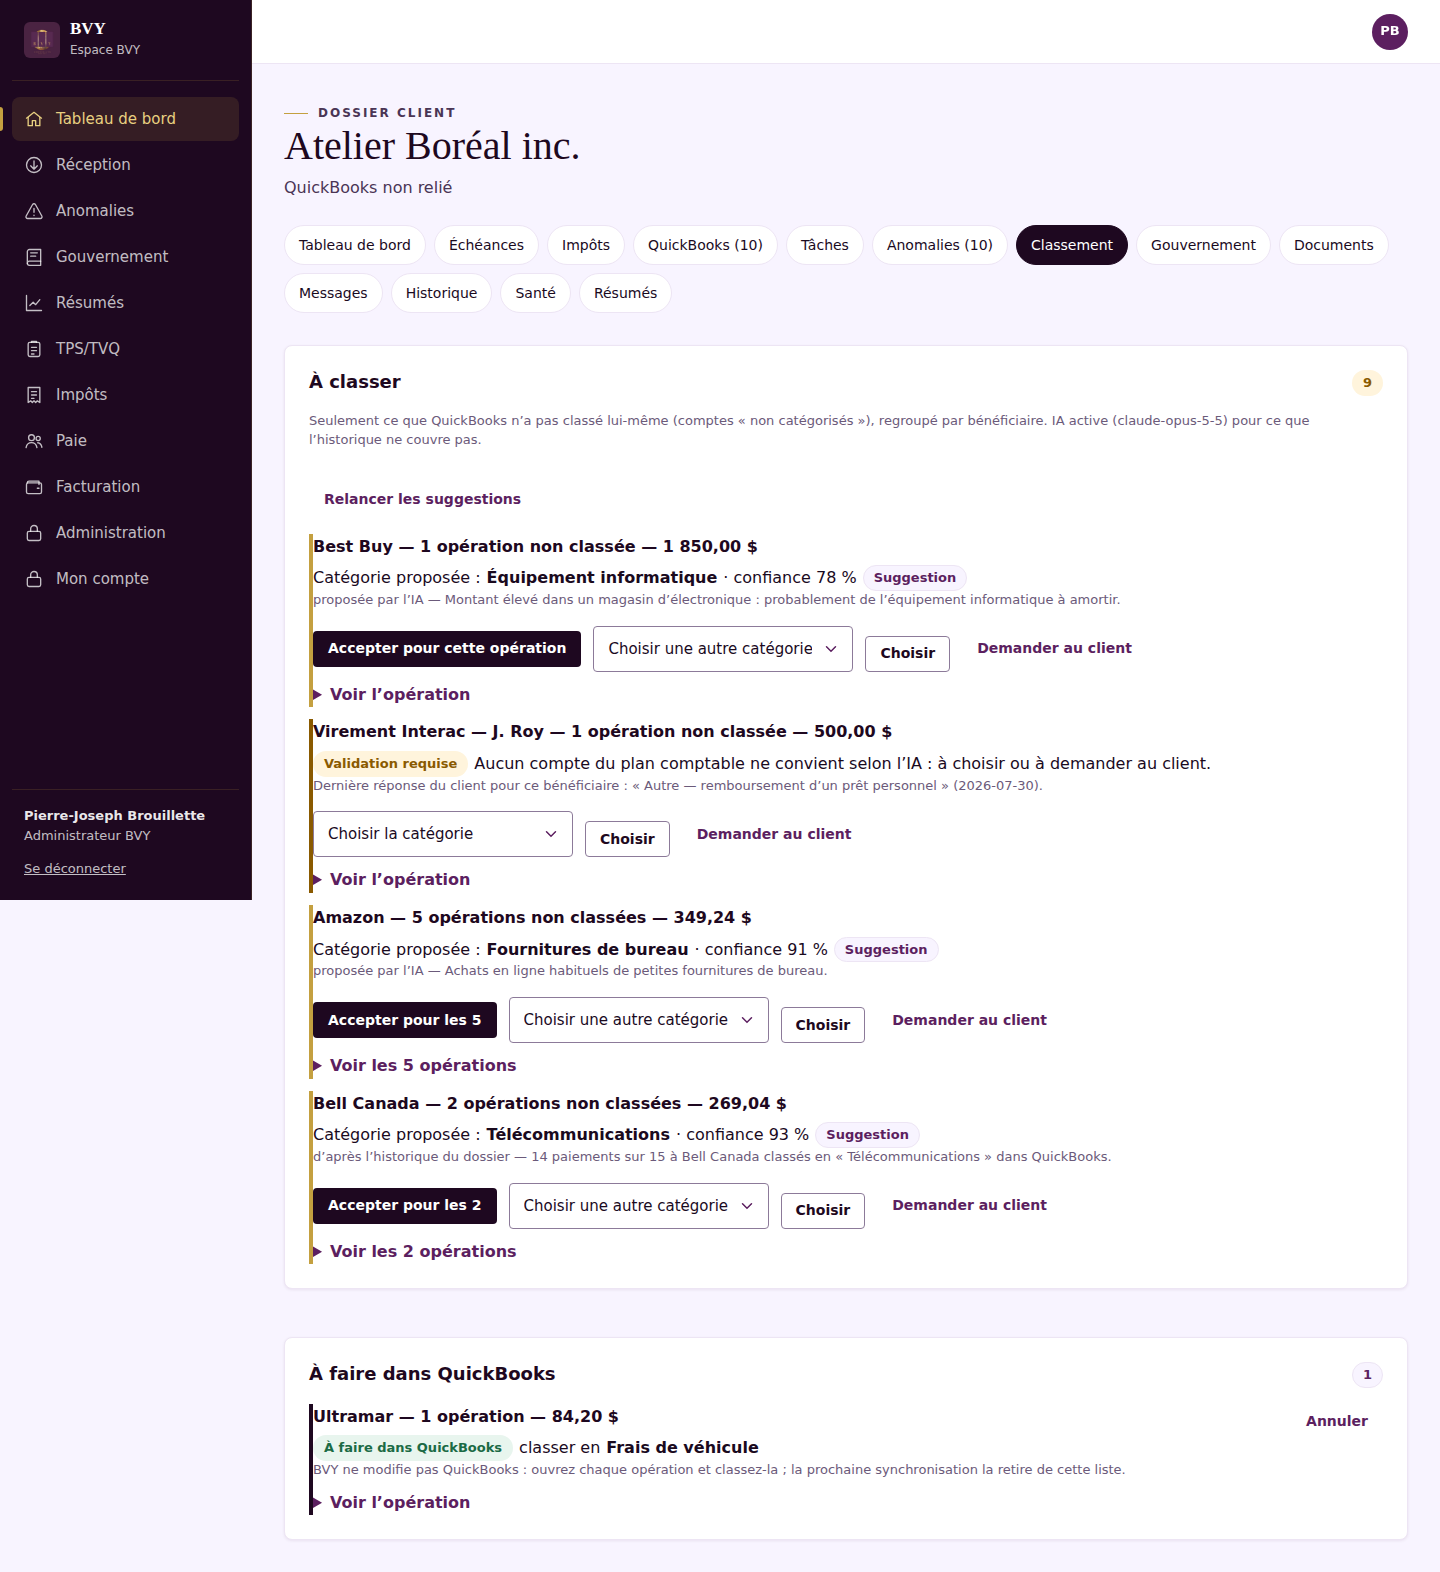
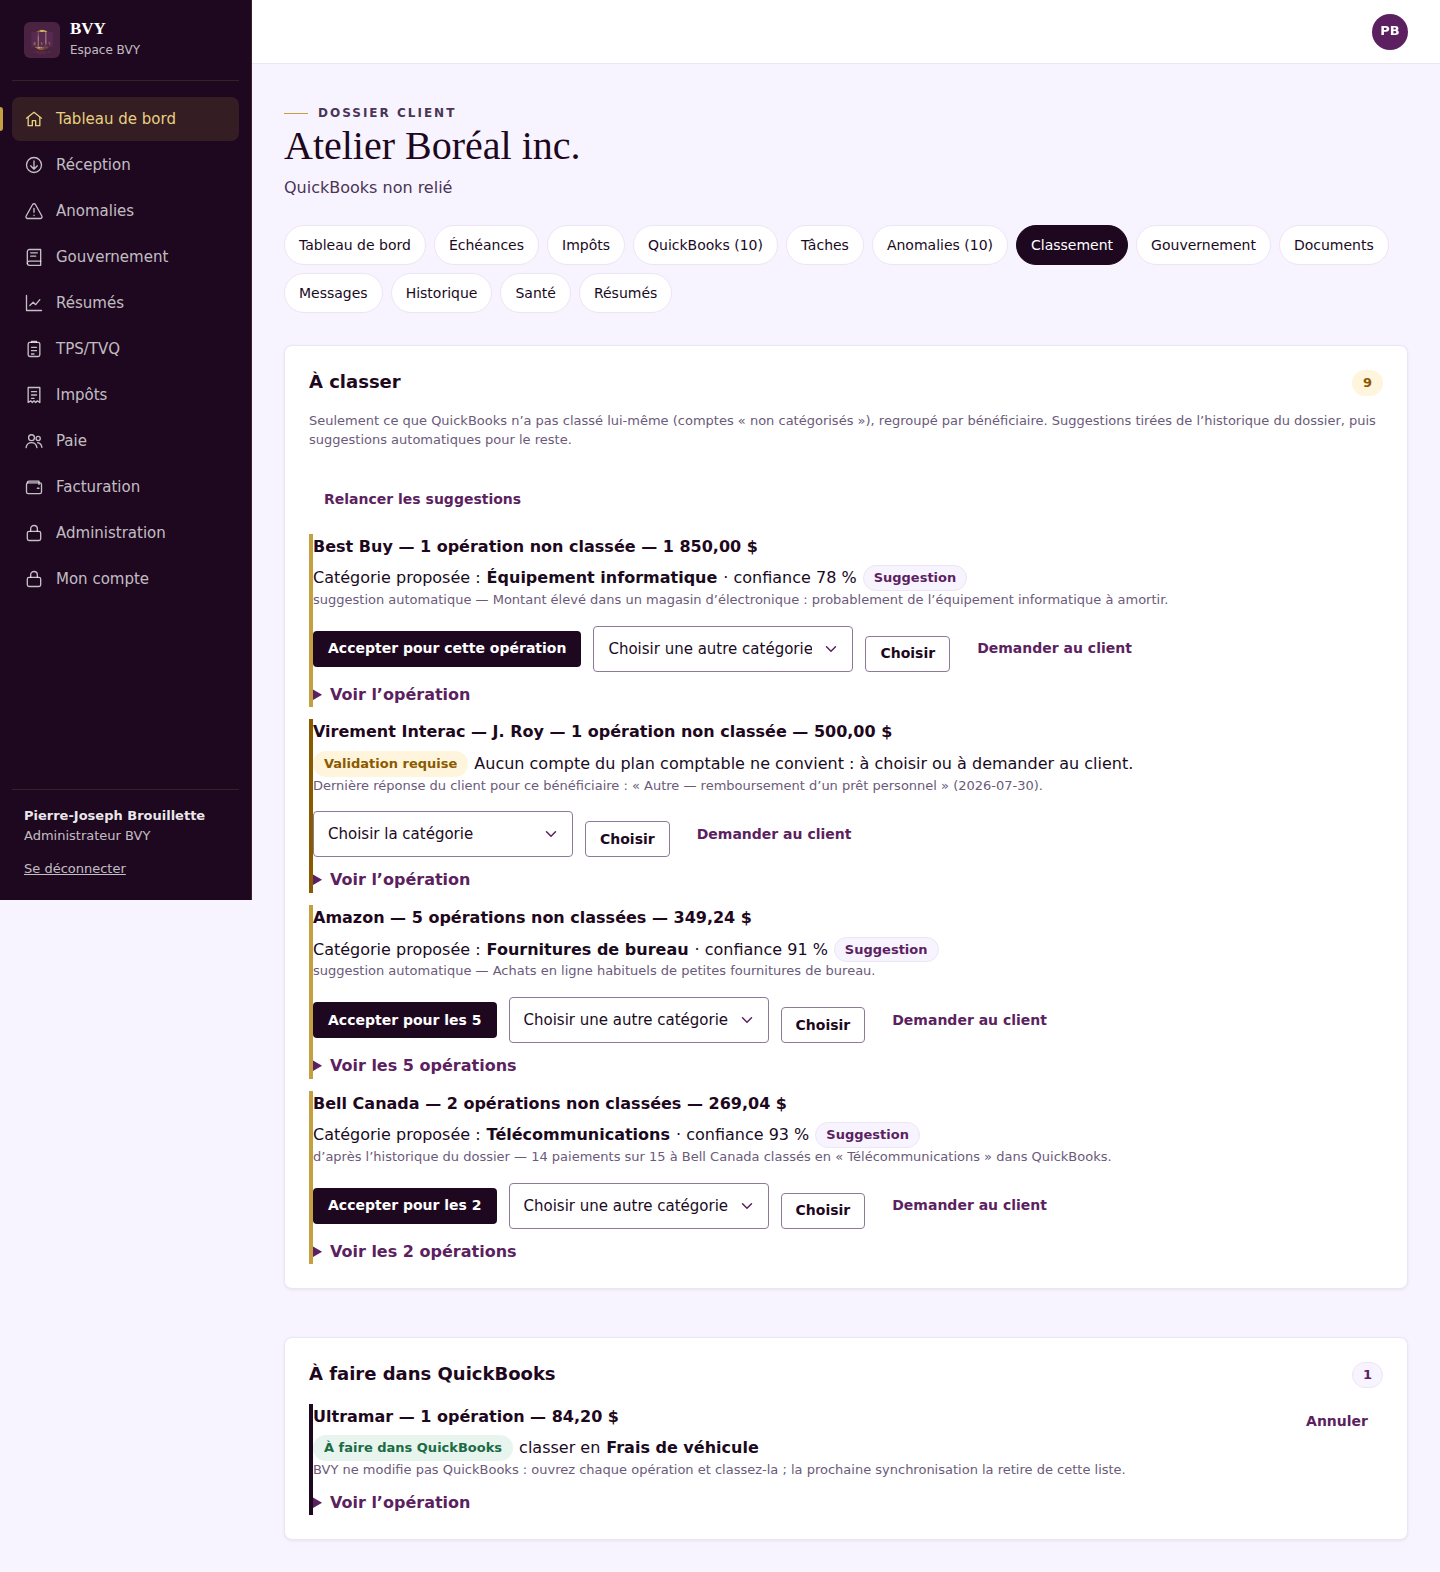
Portail : aucune mention de l'IA dans les pages des clients et des employés
« Suggestion automatique » et « d'après l'historique du dossier » ; réglages
dans Administration → Suggestions (/admin/suggestions), sans nom de modèle ni
jetons. Test de garde contre toute mention. Guide de déploiement : clé du
service à ajouter dans portail.env.

Claude-Session: https://claude.ai/code/session_01TRM3YquBMTjpZKPZenWy7D

diff --git a/bvy-platform/apps/portal/lib/views-classify.js b/bvy-platform/apps/portal/lib/views-classify.js
@@ -9,7 +9,7 @@ const { formatAmount } = require('./portal.js');
 const { isoDay } = require('./dates.js');
 
 const LEVEL = { strong: ['b-good', 'Suggestion forte'], suggest: ['b-info', 'Suggestion'], validate: ['b-watch', 'Validation requise'] };
-const SOURCE = { history: 'd’après l’historique du dossier', ai: 'proposée par l’IA', none: '' };
+const SOURCE = { history: 'd’après l’historique du dossier', ai: 'suggestion automatique', none: '' };
 
 function groupCard(s, client, g, chart) {
   const csrf = csrfField(s);
@@ -42,8 +42,7 @@ function groupCard(s, client, g, chart) {
 function classifyTab(s, { client, groups, chart, settings, shell }) {
   const todo = groups.filter((g) => !g.todo);
   const done = groups.filter((g) => g.todo);
-  const banner = !settings.aiAvailable ? 'IA non installée sur le serveur : seules les suggestions tirées de l’historique du dossier sont faites.'
-    : !settings.aiEnabled ? 'IA désactivée par l’administrateur : seules les suggestions tirées de l’historique du dossier sont faites.' : `IA active (${esc(settings.model)}) pour ce que l’historique ne couvre pas.`;
+  const banner = !settings.aiAvailable || !settings.aiEnabled ? 'Suggestions tirées de l’historique du dossier.' : 'Suggestions tirées de l’historique du dossier, puis suggestions automatiques pour le reste.';
   const inner = `<article class="card"><div class="card-head"><h2 class="t-h3">À classer</h2><span class="badge ${todo.length ? 'b-watch' : 'b-good'}">${todo.reduce((n, g) => n + g.count, 0)}</span></div>
       <p class="t-meta">Seulement ce que QuickBooks n’a pas classé lui-même (comptes « non catégorisés »), regroupé par bénéficiaire. ${banner}</p>
       <form class="mt-4" method="post" action="/clients/${client.id}/classement/relancer">${csrfField(s)}<button class="btn btn-ghost btn-sm" type="submit">Relancer les suggestions</button></form>
@@ -54,22 +53,22 @@ function classifyTab(s, { client, groups, chart, settings, shell }) {
 
 function aiSettingsPage(s, { settings, calls, flash }) {
   const csrf = csrfField(s);
-  const body = `${pageHead('Administration', 'Intelligence artificielle', 'Réglages du classement des opérations que QuickBooks n’a pas catégorisées (workflow 07).')}
-    <nav class="subnav" aria-label="Administration"><a href="/admin">Personnes et clients</a><a href="/cabinet">QBO du cabinet</a><a href="/admin/ia" aria-current="page">IA</a></nav>
-    <div class="cols-2"><article class="card"><div class="card-head"><h2 class="t-h3">Réglages</h2><span class="badge ${settings.aiEnabled && settings.aiAvailable ? 'b-good' : 'b-neutral'}">${settings.aiEnabled && settings.aiAvailable ? 'IA active' : 'IA inactive'}</span></div>
-      ${settings.aiAvailable ? '' : `<div class="alert alert-watch">${icon('i-alert')}<div><p>La clé de l’IA n’est pas installée sur le serveur du portail (ANTHROPIC_API_KEY dans portail.env), ou le module n’est pas installé. Le classement par l’historique fonctionne quand même.</p></div></div>`}
-      <form class="form mt-4" method="post" action="/admin/ia">${csrf}
-        <div class="field"><label class="check"><input type="checkbox" name="aiEnabled" value="1"${settings.aiEnabled ? ' checked' : ''}> Utiliser l’IA pour proposer une catégorie quand l’historique du dossier ne suffit pas</label></div>
-        <p class="t-meta">Envoyé à l’IA, pour chaque opération : bénéficiaire, description, montant, date, et le plan comptable du client. Jamais le nom du client. Activez-la seulement quand votre politique de confidentialité et le consentement de vos clients le mentionnent (Loi 25).</p>
+  const body = `${pageHead('Administration', 'Suggestions automatiques', 'Réglages du classement des opérations que QuickBooks n’a pas catégorisées.')}
+    <nav class="subnav" aria-label="Administration"><a href="/admin">Personnes et clients</a><a href="/cabinet">QBO du cabinet</a><a href="/admin/suggestions" aria-current="page">Suggestions</a></nav>
+    <div class="cols-2"><article class="card"><div class="card-head"><h2 class="t-h3">Réglages</h2><span class="badge ${settings.aiEnabled && settings.aiAvailable ? 'b-good' : 'b-neutral'}">${settings.aiEnabled && settings.aiAvailable ? 'Actives' : 'Inactives'}</span></div>
+      ${settings.aiAvailable ? '' : `<div class="alert alert-watch">${icon('i-alert')}<div><p>Le service de suggestions automatiques n’est pas installé sur le serveur du portail (clé dans portail.env, voir DEPLOIEMENT.md). Le classement par l’historique fonctionne quand même.</p></div></div>`}
+      <form class="form mt-4" method="post" action="/admin/suggestions">${csrf}
+        <div class="field"><label class="check"><input type="checkbox" name="aiEnabled" value="1"${settings.aiEnabled ? ' checked' : ''}> Proposer automatiquement une catégorie quand l’historique du dossier ne suffit pas</label></div>
+        <p class="t-meta">Envoyé au service externe de suggestions, pour chaque opération : bénéficiaire, description, montant, date, et le plan comptable du client. Jamais le nom du client. Activez-les seulement quand votre politique de confidentialité et le consentement de vos clients le mentionnent (Loi 25).</p>
         <div class="gv-grid">${field('strong', 'Seuil « suggestion forte » (%)', `<input class="input num" id="strong" name="strong" inputmode="numeric" value="${settings.strong}">`)}
         ${field('suggest', 'Seuil « suggestion » (%) — en dessous : validation requise', `<input class="input num" id="suggest" name="suggest" inputmode="numeric" value="${settings.suggest}">`)}</div>
         <p class="t-meta">BVY ne modifie jamais QuickBooks automatiquement, même au-dessus du seuil fort.</p>
         <div class="btn-row"><button class="btn btn-plum" type="submit">Enregistrer</button></div></form></article>
-      <article class="card"><div class="card-head"><h2 class="t-h3">Derniers appels à l’IA</h2></div>
+      <article class="card"><div class="card-head"><h2 class="t-h3">Dernières demandes de suggestions</h2></div>
         ${calls.length ? `<div class="table-wrap"><table class="table"><thead><tr><th scope="col">Date</th><th scope="col">Client</th><th scope="col">Opérations</th><th scope="col">Résultat</th></tr></thead><tbody>
-        ${calls.map((c) => `<tr><td>${esc(isoDay(c.at))}</td><td>${esc(c.client || '—')}</td><td class="num">${c.items}</td><td>${c.ok ? 'OK' : `<span class="badge b-act">Échec</span> ${esc(c.error || '')}`}</td></tr>`).join('')}</tbody></table></div>` : '<p class="t-meta">Aucun appel pour l’instant.</p>'}
-        <p class="t-meta mt-4">Le journal ne garde jamais le contenu envoyé : seulement la date, le client, le nombre d’opérations, le modèle et le nombre de jetons.</p></article></div>`;
-  return appPage(s, { title: 'IA', current: '/admin', body, flash });
+        ${calls.map((c) => `<tr><td>${esc(isoDay(c.at))}</td><td>${esc(c.client || '—')}</td><td class="num">${c.items}</td><td>${c.ok ? 'OK' : `<span class="badge b-act">Échec</span> ${esc(c.error || '')}`}</td></tr>`).join('')}</tbody></table></div>` : '<p class="t-meta">Aucune demande pour l’instant.</p>'}
+        <p class="t-meta mt-4">Le journal ne garde jamais le contenu envoyé : seulement la date, le client, le nombre d’opérations et le résultat.</p></article></div>`;
+  return appPage(s, { title: 'Suggestions automatiques', current: '/admin', body, flash });
 }
 
 module.exports = { classifyTab, aiSettingsPage };

diff --git a/bvy-platform/apps/portal/test/classify.test.js b/bvy-platform/apps/portal/test/classify.test.js
@@ -111,20 +111,20 @@ test('classement de bout en bout : historique, IA validée, regroupement, décis
     assert.match(N(r.body), /Costco — 2 opérations non classées — 992,37 \$/);
     assert.match(r.body, /Catégorie proposée : <b>Repas et représentation<\/b> · confiance 83 %/);
     assert.match(r.body, /d’après l’historique du dossier — 5 paiements sur 6 à Costco classés en « Repas et représentation »/);
-    assert.match(r.body, /IA désactivée par l’administrateur/);
+    assert.match(r.body, /Suggestions tirées de l’historique du dossier\./);
 
     // Réglages : administrateur seulement, seuils validés
     const lise = await login('lise@bvy.ca');
-    r = await lise.post('/admin/ia', { aiEnabled: '1', strong: '95', suggest: '75' });
+    r = await lise.post('/admin/suggestions', { aiEnabled: '1', strong: '95', suggest: '75' });
     assert.strictEqual(r.status, 403);
-    r = await owner.post('/admin/ia', { aiEnabled: '1', strong: '70', suggest: '75' });
+    r = await owner.post('/admin/suggestions', { aiEnabled: '1', strong: '70', suggest: '75' });
     assert.match(loc(r), /Seuils invalides/);
-    r = await owner.post('/admin/ia', { aiEnabled: '1', strong: '95', suggest: '75' });
-    assert.match(loc(r), /Réglages de l’IA enregistrés/);
+    r = await owner.post('/admin/suggestions', { aiEnabled: '1', strong: '95', suggest: '75' });
+    assert.match(loc(r), /Réglages des suggestions enregistrés/);
 
     // Relance : l'IA reçoit seulement le reste, sans le nom du client ; une réponse hors du plan comptable est rejetée
     r = await owner.post(`/clients/${soc.id}/classement/relancer`);
-    assert.match(loc(r), /2 par l’historique, 3 par l’IA|0 par l’historique, 3 par l’IA/);
+    assert.match(loc(r), /0 d’après l’historique, 3 automatiques/);
     assert.strictEqual(sent.length, 1);
     assert.deepStrictEqual(sent[0].lines.map((l) => l.party).sort(), ['AMAZON', 'Amazon', 'Amazon', 'Inventé ltée', 'Mystère inc.']);
     assert.doesNotMatch(JSON.stringify(sent[0]), /Atelier|Boréal|Marie/, 'jamais le nom du client');
@@ -140,7 +140,8 @@ test('classement de bout en bout : historique, IA validée, regroupement, décis
     assert.match(N(r.body), /Amazon — 3 opérations non classées — 192,54 \$/);
     assert.match(r.body, /Fournitures de bureau<\/b> · confiance 91 % <span class="badge b-info">Suggestion<\/span>/);
     assert.match(r.body, /Mystère inc\. — 1 opération[\s\S]*Validation requise/);
-    assert.match(r.body, /IA active \(faux-modele\)/);
+    assert.match(r.body, /puis suggestions automatiques pour le reste/);
+    assert.doesNotMatch(r.body, /\bIA\b|faux-modele|[Cc]laude|intelligence artificielle/, 'aucune mention de l’IA dans les pages');
 
     // Décisions : accepter, choisir, annuler ; « À faire dans QuickBooks »
     const g = (party) => cl.groups(admin, soc.id).find((x) => x.party.toLowerCase().startsWith(party));
@@ -173,7 +174,8 @@ test('classement de bout en bout : historique, IA validée, regroupement, décis
     const marie = await login('marie@boreal.ca');
     r = await marie.get(`/clients/${soc.id}/classement`);
     assert.notStrictEqual(r.status, 200);
-    r = await owner.get('/admin/ia');
-    assert.match(r.body, /Derniers appels à l’IA[\s\S]*Atelier Boréal inc\./);
+    r = await owner.get('/admin/suggestions');
+    assert.match(r.body, /Dernières demandes de suggestions[\s\S]*Atelier Boréal inc\./);
+    assert.doesNotMatch(r.body.replace(/<[^>]+>/g, ' '), /\bIA\b|[Cc]laude|[Aa]nthropic|intelligence artificielle|jetons/, 'réglages sans mention de l’IA');
   } finally { app.close(); }
 });

diff --git a/bvy-platform/apps/portal/lib/routes-portal.js b/bvy-platform/apps/portal/lib/routes-portal.js
@@ -193,13 +193,13 @@ function createPortalRoutes({ db, portal, notifyClient, notifyTeam, qboService =
           return ok(backTo(form.back, `/clients/${cid}/anomalies`), msg), true;
         }
         /* Réglages de l'IA (workflow 07) : administrateur */
-        if (p === '/admin/ia') {
+        if (p === '/admin/suggestions') {
           if (u.role !== 'admin') throw new PortalError('Accès refusé.');
           if (GET) {
             const calls = db.prepare('SELECT a.*, c.name AS client FROM ai_calls a LEFT JOIN clients c ON c.id = a.client_id ORDER BY a.id DESC LIMIT 20').all();
             return send200(res, CV.aiSettingsPage(s, { settings: classifier.settings(), calls, flash: flashOf(url) })), true;
           }
-          if (POST) { classifier.saveSettings(u, form, ip); return ok('/admin/ia', 'Réglages de l’IA enregistrés.'), true; }
+          if (POST) { classifier.saveSettings(u, form, ip); return ok('/admin/suggestions', 'Réglages des suggestions enregistrés.'), true; }
         }
         /* Résumés (workflow 16) */
         if (p === '/resumes' && GET) {
@@ -509,7 +509,7 @@ function createPortalRoutes({ db, portal, notifyClient, notifyTeam, qboService =
           }
           if (sub === '/classement/relancer' && POST) {
             const r = await classifier.classifyClient(cid, { retry: true });
-            return ok(`/clients/${cid}/classement`, `Suggestions relancées : ${r.history} par l’historique, ${r.ai} par l’IA.`), true;
+            return ok(`/clients/${cid}/classement`, `Suggestions relancées : ${r.history} d’après l’historique, ${r.ai} automatiques.`), true;
           }
           if (sub === '/sante' && GET) {
             return send200(res, SV.healthTab(s, { client, h: health.forActor(u, cid), shell: (inner) => P.staffClientShell(s, client, '/sante', inner, flashOf(url), counts(u, cid)) })), true;

diff --git a/bvy-platform/apps/portal/lib/views-work.js b/bvy-platform/apps/portal/lib/views-work.js
@@ -197,7 +197,7 @@ function firmPage(s, { qbo, enabled, deadlinesHtml, flash }) {
         <a class="btn btn-outline btn-sm" href="/facturation">Voir la facturation</a>
         <form method="post" action="/cabinet/quickbooks/deconnecter">${csrf}<button class="btn btn-ghost btn-sm" type="submit">Déconnecter</button></form></div>`;
   const body = `${pageHead('Administration', 'QBO du cabinet', 'Le QuickBooks de BVY (lecture seule) et les obligations fiscales de BVY elle-même.')}
-    <nav class="subnav" aria-label="Administration"><a href="/admin">Personnes et clients</a><a href="/cabinet" aria-current="page">QBO du cabinet</a><a href="/admin/ia">IA</a></nav>
+    <nav class="subnav" aria-label="Administration"><a href="/admin">Personnes et clients</a><a href="/cabinet" aria-current="page">QBO du cabinet</a><a href="/admin/suggestions">Suggestions</a></nav>
     <div class="cols-2"><article class="card"><div class="card-head"><h2 class="t-h3">QuickBooks de BVY</h2></div>${status}</article>
     <article class="card"><div class="card-head"><h2 class="t-h3">Bon à savoir</h2></div><p>Réservé à l’administrateur. Cette fiche n’apparaît jamais comme un client et n’est visible d’aucun client.</p>
       <p class="mt-4">Le portail ne modifie rien dans QuickBooks.</p></article></div>

diff --git a/bvy-platform/apps/portal/lib/views.js b/bvy-platform/apps/portal/lib/views.js
@@ -331,7 +331,7 @@ function adminPage(s, { users, clients, flash, extra = '' }) {
     <td>${can(u, 'users.manage') ? `<a class="link" href="/admin/utilisateurs/${x.id}">Gérer</a>` : ''}</td></tr>`).join('');
 
   const body = `${pageHead('Administration', 'Personnes et clients', 'Invitez les personnes, créez les clients et choisissez qui voit quoi.')}
-  ${u.role === 'admin' ? '<nav class="subnav" aria-label="Administration"><a href="/admin" aria-current="page">Personnes et clients</a><a href="/cabinet">QBO du cabinet</a><a href="/admin/ia">IA</a></nav>' : ''}
+  ${u.role === 'admin' ? '<nav class="subnav" aria-label="Administration"><a href="/admin" aria-current="page">Personnes et clients</a><a href="/cabinet">QBO du cabinet</a><a href="/admin/suggestions">Suggestions</a></nav>' : ''}
   <div class="cols-2">
     <article class="card"><div class="card-head"><h2 class="t-h3">Inviter une personne</h2></div>
       <form class="form" method="post" action="/admin/inviter">${csrf}

diff --git a/bvy-platform/apps/portal/lib/classify.js b/bvy-platform/apps/portal/lib/classify.js
@@ -113,7 +113,7 @@ function createClassifier(db, { audit, now = () => Date.now(), ai = null }) {
             const ok = valid.has(String(r.account_id));
             const conf = Math.max(0, Math.min(100, Math.round(Number(r.confidence) || 0)));
             ins.run(it.id, id, ok ? String(r.account_id) : null, ok ? accountName(id, r.account_id) : null, ok ? conf : null, ok ? 'ai' : 'none',
-              ok ? String(r.reason || '').slice(0, 300) : 'Aucun compte du plan comptable ne convient selon l’IA : à choisir ou à demander au client.', iso(), 1);
+              ok ? String(r.reason || '').slice(0, 300) : 'Aucun compte du plan comptable ne convient : à choisir ou à demander au client.', iso(), 1);
             if (ok) aiCount += 1;
           }
           db.prepare('INSERT INTO ai_calls (client_id, purpose, items, model, input_tokens, output_tokens, ok, at) VALUES (?, ?, ?, ?, ?, ?, 1, ?)')

diff --git a/bvy-platform/tools/deployment/DEPLOIEMENT.md b/bvy-platform/tools/deployment/DEPLOIEMENT.md
@@ -975,3 +975,21 @@ sudo ss -ltnp | grep -E ':80 |:443 |:3000 '   # qui utilise les ports ?
 | `deploy.cmd` : « ssh n'est pas reconnu » | Client OpenSSH non installé | Section 1.1. |
 | `deploy.cmd` : « Le site est introuvable » | Mauvaise branche git ou ZIP incomplet | `git checkout claude/competence-marketing-pro-hvz21k` puis `git pull`. |
 | `sudo` demande un mot de passe | Normal sur certains serveurs | C'est le mot de passe de l'utilisateur `ubuntu`. |
+
+## Suggestions automatiques du portail (workflow 07) — facultatif
+
+Le classement des opérations non catégorisées fonctionne sans rien installer (historique du dossier). Pour les
+suggestions automatiques en plus :
+
+1. Déployer le portail (`deploy-portail.cmd`) : le module nécessaire s'installe tout seul (`npm ci`). En cas
+   d'échec, le portail fonctionne quand même, suggestions automatiques inactives.
+2. Sur le serveur, ajouter la clé vous-même (jamais dans Git ni dans une conversation) :
+
+   ```bash
+   sudo nano /var/www/bvy-portail/shared/portail.env
+   # ajouter la ligne : ANTHROPIC_API_KEY=…   (la même clé que celle du site, dans /var/www/bvy-website/shared/.env)
+   sudo systemctl restart bvy-portail
+   ```
+
+3. Dans le portail : Administration → Suggestions → cocher « Proposer automatiquement une catégorie… », seulement
+   quand la politique de confidentialité et le consentement des clients le mentionnent (Loi 25).

diff --git a/bvy-platform/workflows/07_ai_classification.md b/bvy-platform/workflows/07_ai_classification.md
@@ -9,6 +9,10 @@
   what QBO did not take into account** (lines left in an « uncategorized » account). Owner, 2026-10-03.
 - BVY stays read-only in QBO for now: an accepted suggestion becomes a « À faire dans QuickBooks » line with a
   direct link; the next sync closes it once done. Writing into QBO is a later step that needs its own approval.
+- **No AI wording in the pages** (owner, 2026-10-04): no « IA », « Claude », « intelligence artificielle », model name
+  or tokens on any client or staff page. Staff see « suggestion automatique » and « d'après l'historique du dossier »;
+  the settings page is « Administration → Suggestions ». The privacy policy still has to mention the external
+  service (Loi 25) before it is turned on.
 - Reference: `docs/cahier-anomalies-qbo.md` (points 3, 11, 12, 14, 15), applied progressively.
 
 ## Part A — category suggestions
